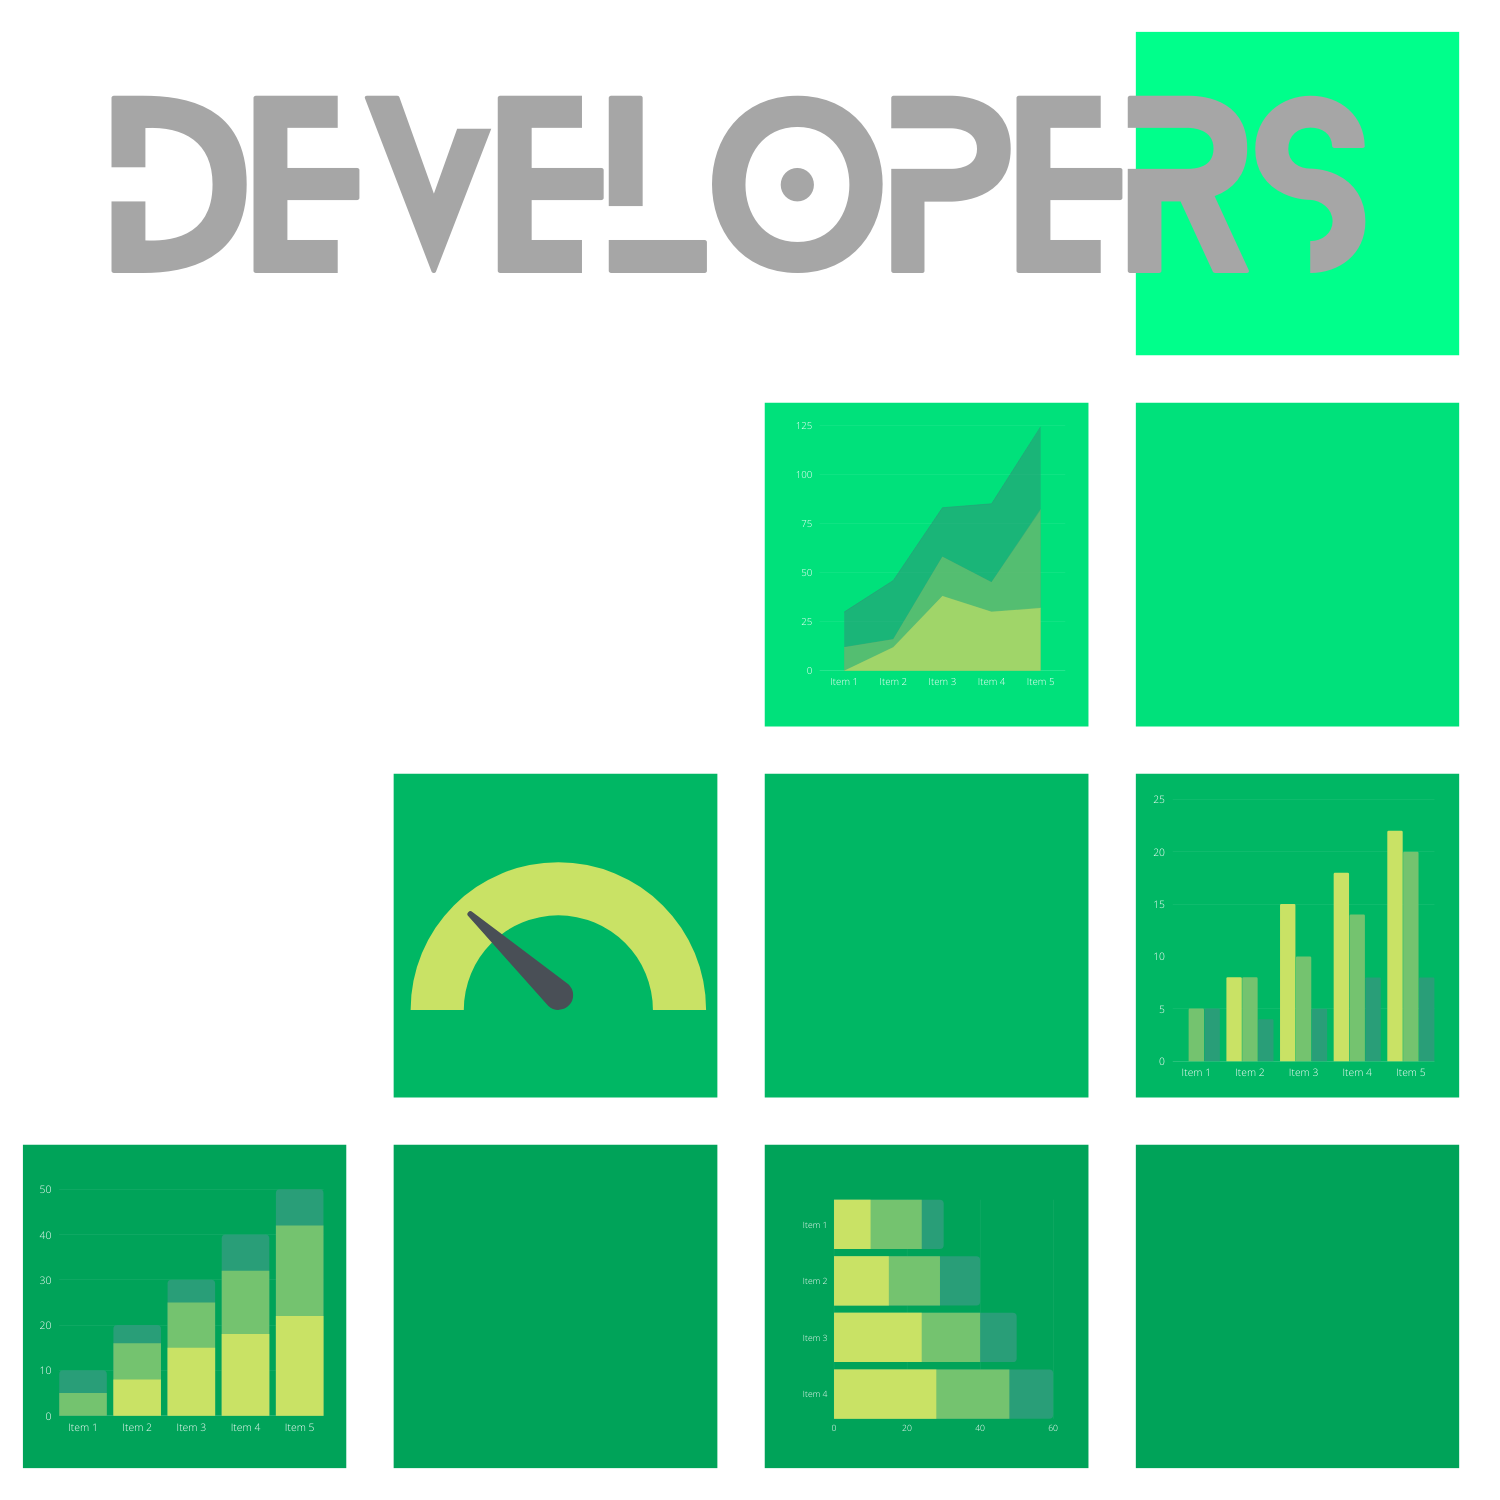
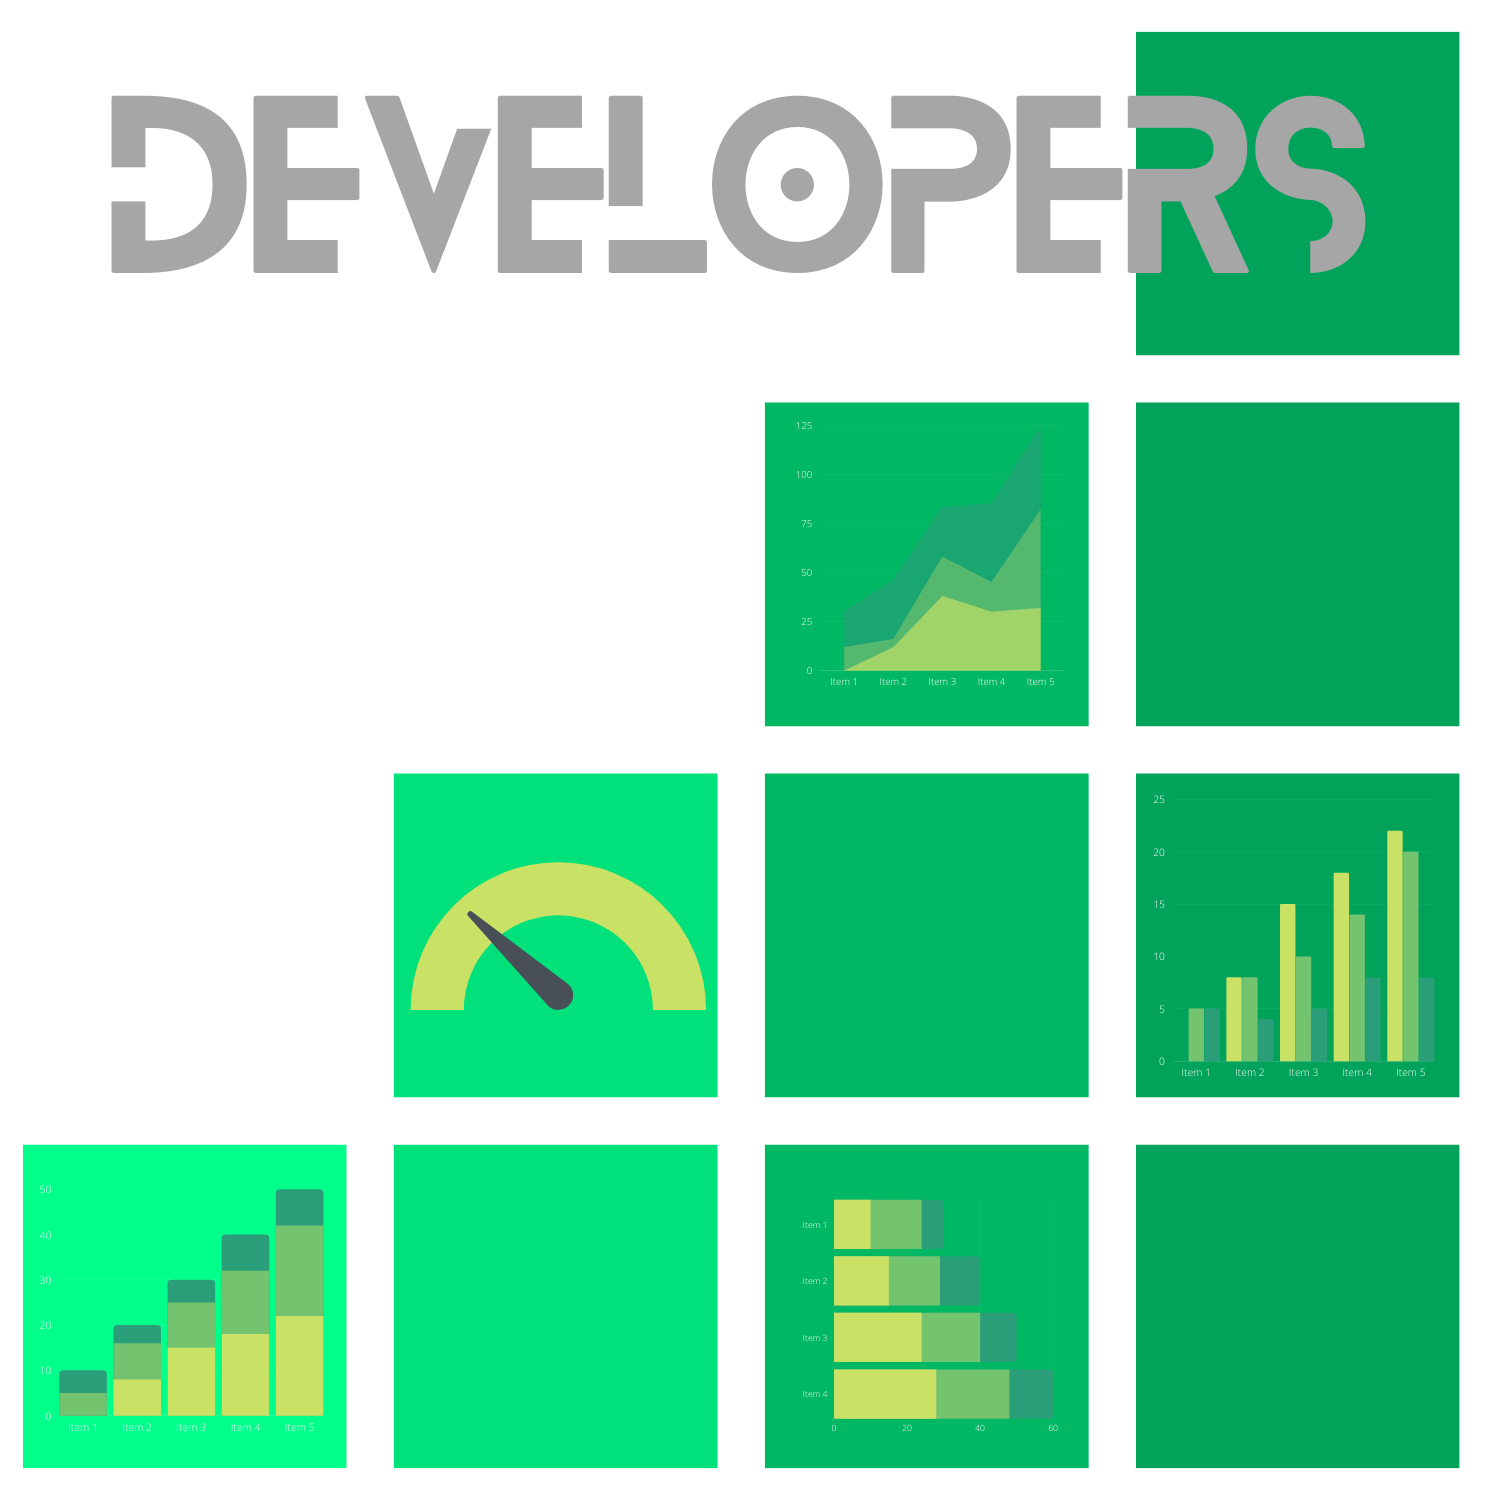
Component functionality/styling update.

Changed region(s): [[0.4907, 0.0, 0.9813, 0.4907], [0.0, 0.4907, 0.4907, 0.9813]]

diff --git a/client/src/pages/Developers/index.js b/client/src/pages/Developers/index.js
@@ -19,12 +19,17 @@ function Developers() {
                     <Card >
                         <Card.Body>
                             <Card.Img variant="top" src="https://avatars.githubusercontent.com/u/69598784?s=460&u=7c00921c6bc2321d43dadd9eb70fe9938d076a01&v=4" />
+
                             <Card.Title>Ian Fleshman-Cooper</Card.Title>
+
                             <Card.Subtitle className="mb-2 text-muted">Full-Stack WebDeveloper</Card.Subtitle>
-                            <Card.Text>
+
+                            <Card.Text className="font-weight-light">
                             Developer with a BA in Mathematics & IT from Northwest University, and a Certificate from the University of Washington- Professional and Continuing Education
                             </Card.Text>
+
                             <Card.Link target="blank" href="https://github.com/Ianaac27">GitHub</Card.Link>
+
                         </Card.Body>
                     </Card>
                 </Col>
@@ -33,11 +38,15 @@ function Developers() {
                     <Card >
                         <Card.Body>
                             <Card.Img variant="top" src="https://avatars.githubusercontent.com/u/70823060?s=460&u=75baa87a349335c21c584b0f769e8692504d6da8&v=4" />
+
                             <Card.Title>Joshua J Haller</Card.Title>
+
                             <Card.Subtitle className="mb-2 text-muted">Full-Stack WebDeveloper</Card.Subtitle>
-                            <Card.Text>
+
+                            <Card.Text className="font-weight-light">
                             As a self-taught photographer, I always had an interest in tech. Coding in particular. My hope is to build a career that blends my past with what I'm learning.
                             </Card.Text>
+
                             <Card.Link target="blank" href="https://github.com/JJHPhoto">GitHub</Card.Link>
                         </Card.Body>
                     </Card>
@@ -46,12 +55,17 @@ function Developers() {
                     <Card >
                         <Card.Body>
                             <Card.Img variant="top" src="https://avatars.githubusercontent.com/u/71116187?s=460&u=dc65020eb68ec0a5080a7166b23092555bd4c698&v=4" />
+
                             <Card.Title>Bryson Palmer</Card.Title>
+
                             <Card.Subtitle className="mb-2 text-muted">Full-Stack WebDeveloper</Card.Subtitle>
-                            <Card.Text>
+
+                            <Card.Text className="font-weight-light">
                             I am a husband, father, jiujiteiro, musician, and now a student. I have been a stay-at-home dad for nine years and now I'm transitioning into web development.
                             </Card.Text>
+
                             <Card.Link target="blank" href="https://github.com/Bryson-Palmer">GitHub</Card.Link>
+
                         </Card.Body>
                     </Card>
                 </Col>
@@ -59,12 +73,17 @@ function Developers() {
                     <Card >
                         <Card.Body>
                             <Card.Img variant="top" src="https://avatars.githubusercontent.com/u/71612026?s=460&v=4" />
+
                             <Card.Title>Ilya Libershteyn</Card.Title>
+
                             <Card.Subtitle className="mb-2 text-muted">Full-Stack WebDeveloper</Card.Subtitle>
-                            <Card.Text>
+
+                            <Card.Text className="font-weight-light">
                             Back-end guru.
                             </Card.Text>
+
                             <Card.Link target="blank" href="https://github.com/ilya-libershteyn">GitHub</Card.Link>
+
                         </Card.Body>
                     </Card>
                 </Col>
@@ -72,12 +91,17 @@ function Developers() {
                     <Card >
                         <Card.Body>
                             <Card.Img variant="top" src="https://avatars.githubusercontent.com/u/71522049?s=460&u=74cd937a94ae684167550fc83dab4db771f251c7&v=4" />
+
                             <Card.Title>Thomas Kading</Card.Title>
+
                             <Card.Subtitle className="mb-2 text-muted">Full-Stack WebDeveloper</Card.Subtitle>
-                            <Card.Text>
+
+                            <Card.Text className="font-weight-light">
                             Current web developer with a background in environmental science.
                             </Card.Text>
+
                             <Card.Link target="blank" href="https://github.com/Tskading">GitHub</Card.Link>
+
                         </Card.Body>
                     </Card>
                 </Col>

diff --git a/client/src/pages/AboutUs/index.js b/client/src/pages/AboutUs/index.js
@@ -4,6 +4,8 @@ import { Link } from "react-router-dom";
 import ProgFooter from "../../components/Footer";
 import { Header } from "../../components/Header/Header";
 import NavBar from "../../components/NavBar/NavBar";
+import Img from "../../components/photos/SquaresRight.png"
+import Img2 from "../../components/photos/SquaresLeft.png"
  
 function About() {
  
@@ -15,22 +17,32 @@ function About() {
         <h1>About Us</h1>
             <Row >
                 <Col >
-                <p className="text-left">
+                <p className="text-left mt-5 font-weight-light">
                     You are here because you care.  You care about always moving forward, always growing, always progressing.  Progressing was built and designed by like minded individuals.  Having a way to manage and track your personal growth is more important than ever, given the fast paced world in which we all live.  We are always looking for ways to continually improve ourselves.  We built Progressing because we wanted a way to not only track our goals, but a way to break a substantial goal into smaller actionable pieces.  We did not design Progressing to be your daily 'drink three cups of water' goal app.  We are here because we are looking to better ourselves, and these types of ambitions make defining and tracking your goals more difficult.  This is where we step in, we strongly believe in the S.M.A.R.T (specific, measurable, attainable, relevant, time-bound) acronym in terms of building out your goals.  Head over to the <Link to="/howto">How to Use Progressing</Link> page to learn more!
                 </p>
                 </Col>
  
-                <Col className="empty">                
+                <Col className="img mt-0 mb-5">
+                    <img
+                        className="d-block w-100"
+                        src={Img}
+                        alt="First slide"
+                    />         
                 </Col>
             </Row>
         <h1 className="text-right">Progressing</h1>
             <Row >
  
-                <Col className="empty">                
+                <Col className="img mt-0 mb-5">
+                    <img
+                        className="d-block w-100"
+                        src={Img2}
+                        alt="First slide"
+                    />             
                 </Col>
  
                 <Col >
-                    <p className="text-right mb-5">
+                    <p className="text-right font-weight-light mt-5 mb-0">
                     By utilizing the Progressing application, you will be able to create your own goals - each with unique Milestones and Action Items that will help you break your larger goals into smaller pieces.  By letting us guide you through the goal creation process, we will give you a clear and concise vision of the things you want to accomplish to meet your goal.
                     </p>
                 </Col>

diff --git a/client/src/components/NavBar/NavBar.js b/client/src/components/NavBar/NavBar.js
@@ -16,14 +16,36 @@ function NavBar() {
   const user = useAuthenticatedUser();
 
   return (
-    <div className="mt-4">
-      <Navbar bg="success" variant="dark">
+    <div className="header">
+      <Navbar variant="dark">
 
       <NavDropdown title={<FontAwesomeIcon icon={faBars}/>} id="basic-nav-dropdown">
-        <NavDropdown.Item as={Link} to="/home" style={{ textDecoration: 'none', color: 'black'}}>Home</NavDropdown.Item>
-        <NavDropdown.Item as={Link} to="/creategoal" style={{ textDecoration: 'none', color: 'black'}}>Create Goal</NavDropdown.Item>
+
+        <NavDropdown.Item as={Link} to="/home" style={{ textDecoration: 'none', color: 'black'}}>
+          Home
+        </NavDropdown.Item>
+
+        <NavDropdown.Item as={Link} to="/creategoal" style={{ textDecoration: 'none', color: 'black'}}>
+          Create Goal
+        </NavDropdown.Item>
+
+        <NavDropdown.Item as={Link} to="/about" style={{ textDecoration: 'none', color: 'black'}}>
+          About Us
+        </NavDropdown.Item>
+
+        <NavDropdown.Item as={Link} to="/howto" style={{ textDecoration: 'none', color: 'black'}}>
+          How To
+        </NavDropdown.Item>
+
+        <NavDropdown.Item as={Link} to="/developers" style={{ textDecoration: 'none', color: 'black'}}>
+          Developers
+        </NavDropdown.Item>
+
         <NavDropdown.Divider />
-        <NavDropdown.Item><LogoutButton /></NavDropdown.Item>
+
+        <NavDropdown.Item>
+          <LogoutButton />
+        </NavDropdown.Item>
       </NavDropdown>
         <Navbar.Collapse className="justify-content-end">
           {user &&

diff --git a/client/src/components/Chart/index.js b/client/src/components/Chart/index.js
@@ -8,7 +8,7 @@ function Chart(props) {
       {/* {console.log("charts", props)} */}
       <Card className="mt-2">
         <Card.Body>
-          <Card.Header className="bg-success mb-2 pb-2">
+          <Card.Header style={{backgroundColor:"#01a35a"}} className="mb-2 pb-2">
             <Link
               className="text-white"
               style={{ textDecoration: "none", color: "black" }}

diff --git a/client/src/components/Carousel/index.js b/client/src/components/Carousel/index.js
@@ -16,7 +16,7 @@ function GoalCarousel(props)  {
   console.log(renderObjects);
     
   return (
-    <Carousel data-interval="null" activeIndex={index} onSelect={handleSelect}>
+    <Carousel className="carousel slide" interval={null} activeIndex={index} onSelect={handleSelect}>
 
     {renderObjects.map(obj => {
 

diff --git a/client/src/components/BarChart/index.js b/client/src/components/BarChart/index.js
@@ -7,7 +7,7 @@ import {
 
 const BarChart = () => {
   return (
-    <div className="chartjs">
+    <div className="chartjs mb-5">
       <Bar
         data={{
           labels: [

diff --git a/client/src/components/NavBar/style.css b/client/src/components/NavBar/style.css
@@ -6,3 +6,7 @@
 #basic-nav-dropdown::after {
     content: none;
 }
+
+.header {
+    background-color: #01a35a !important;
+}
